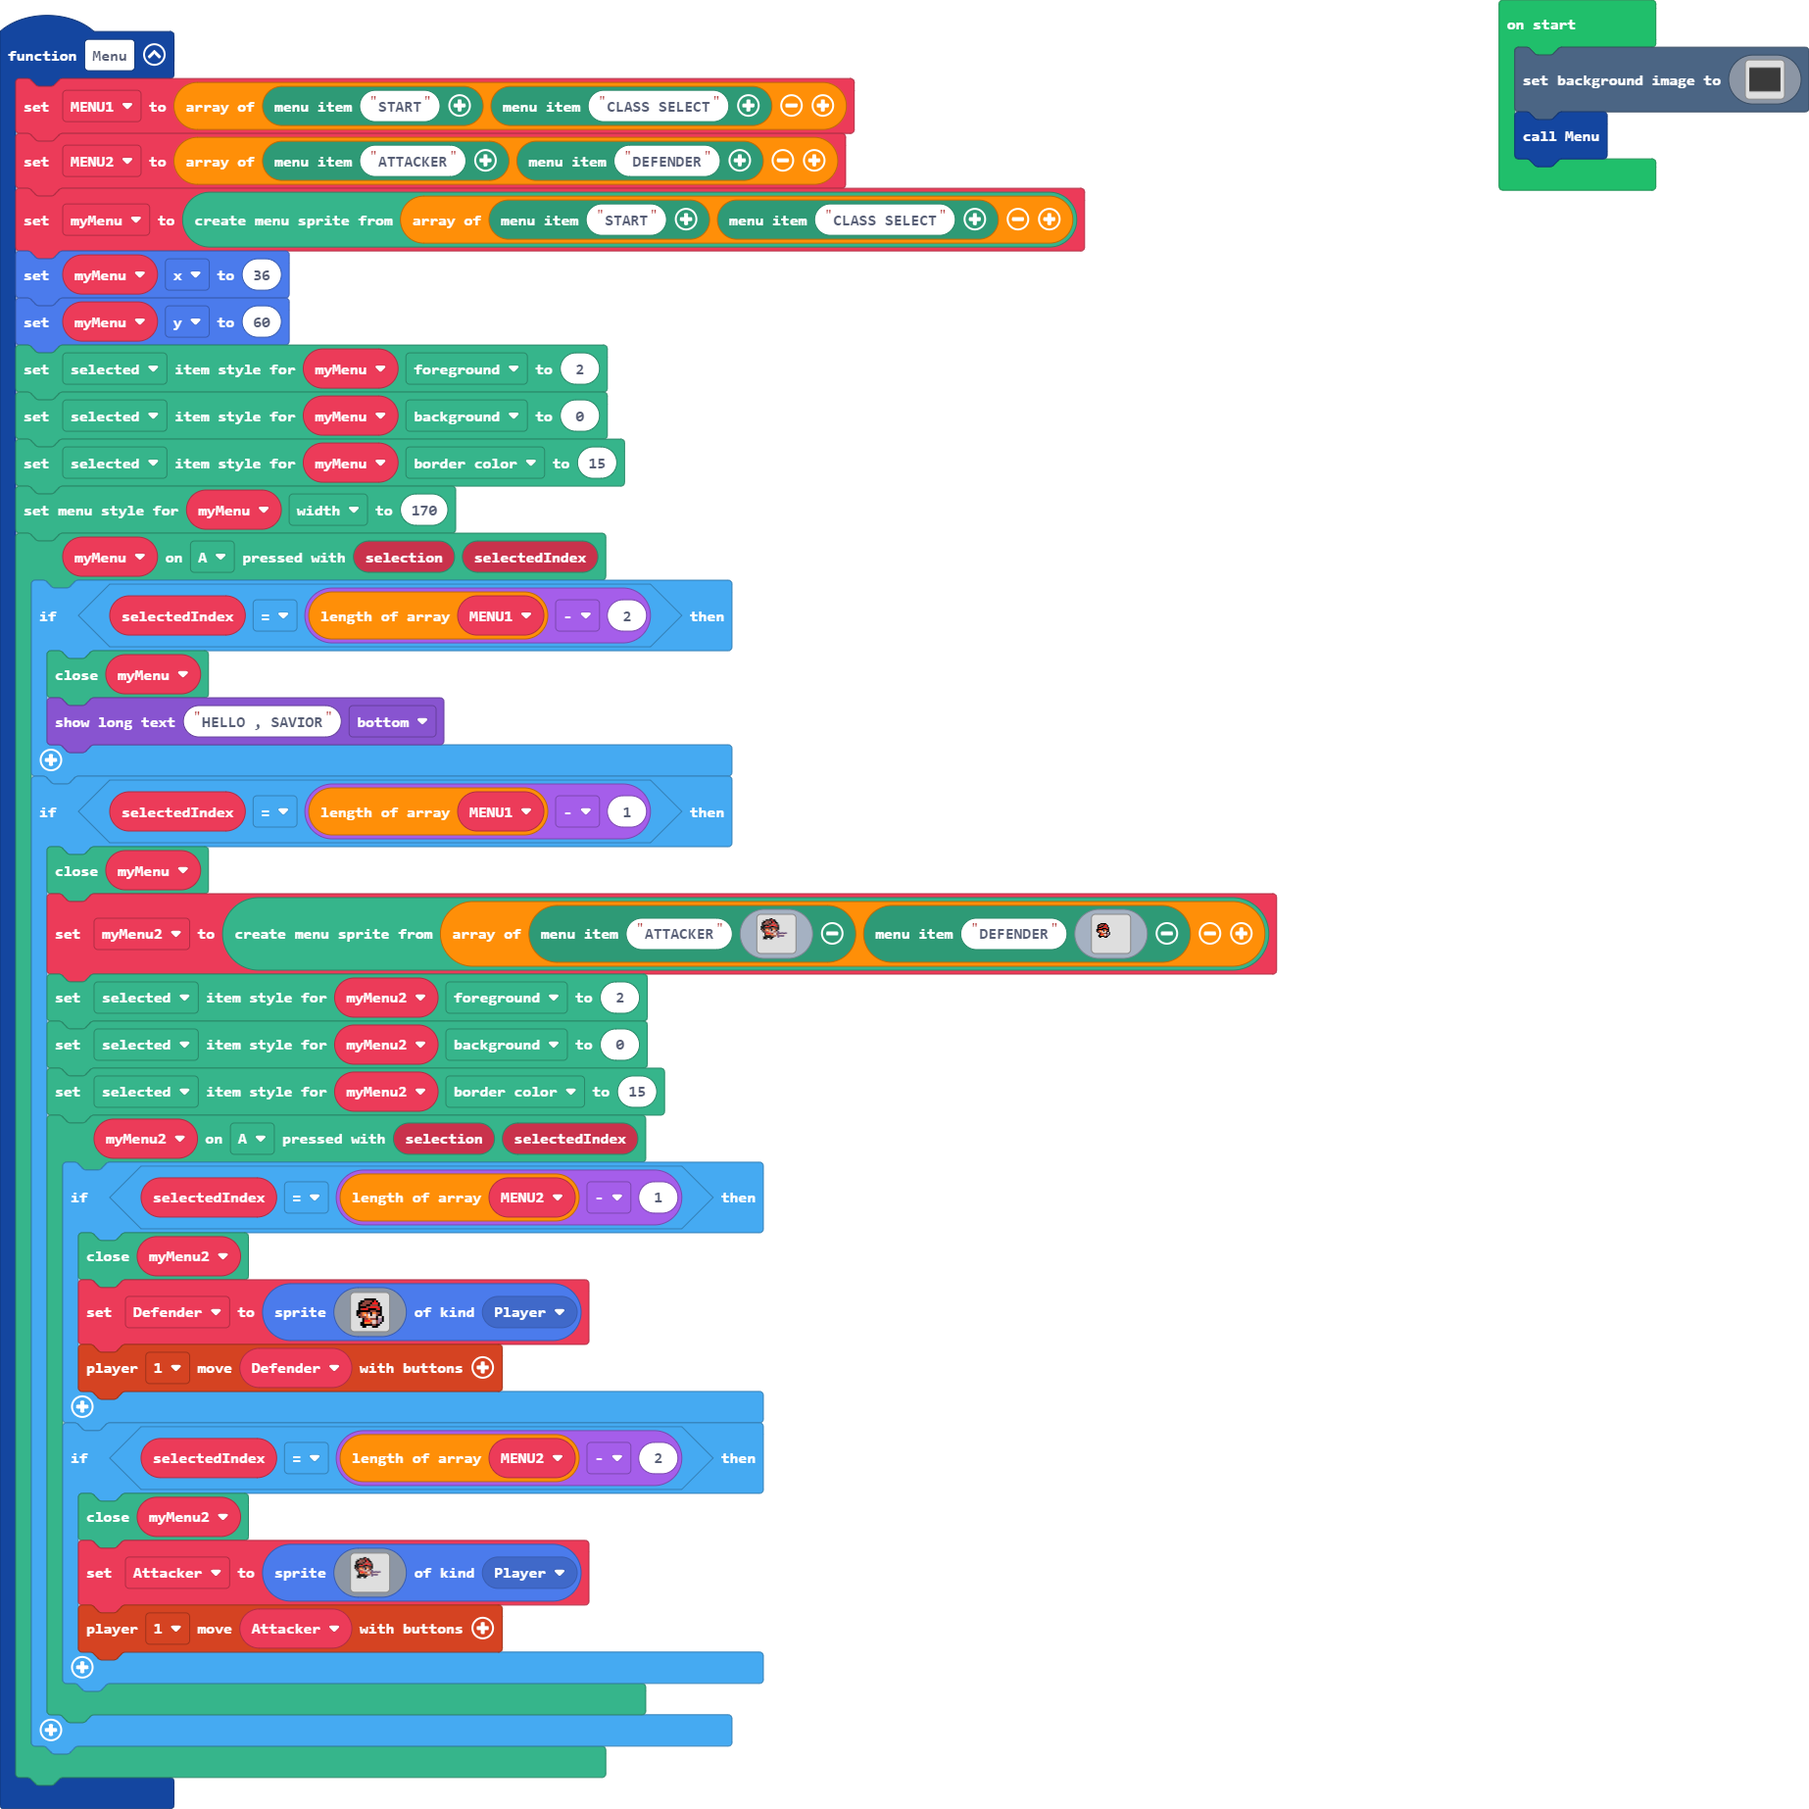
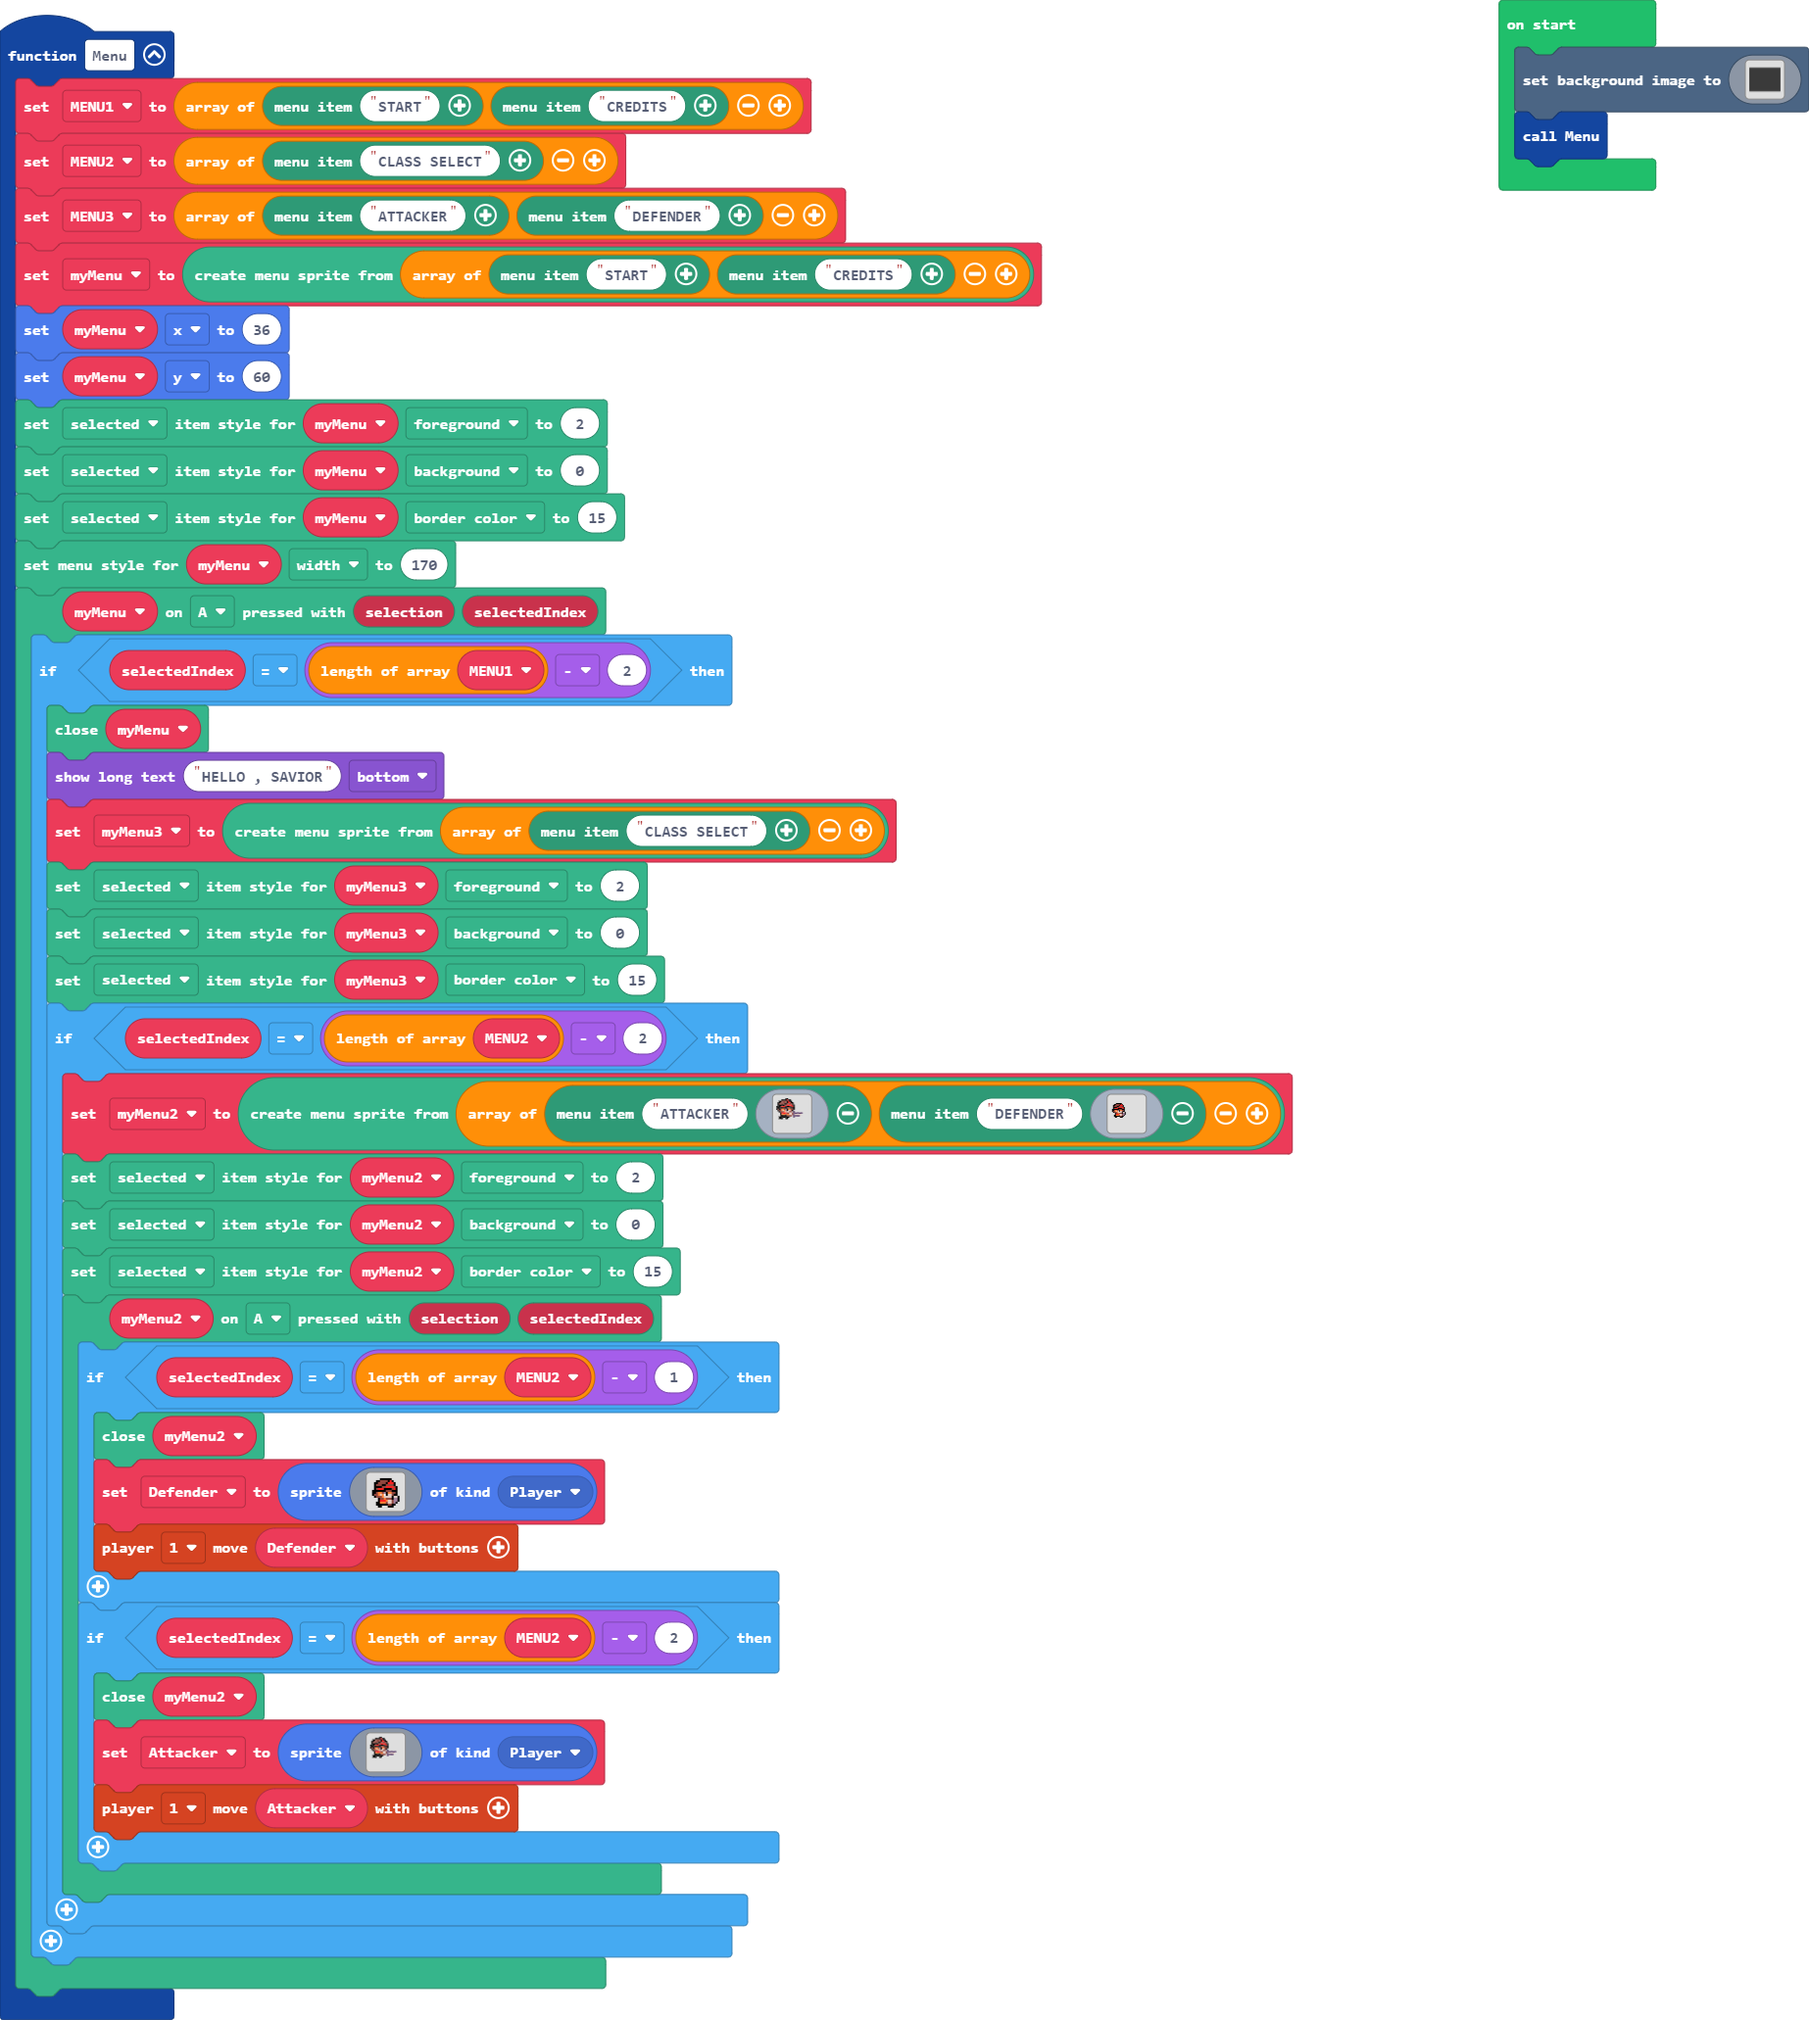
Update main.blocks, main.ts

Changed region(s): [[0.0, 0.0, 0.7411, 0.9881], [0.8337, 0.0, 1.0, 0.1235]]

diff --git a/main.ts b/main.ts
@@ -1,7 +1,8 @@
 function Menu () {
-    MENU1 = [miniMenu.createMenuItem("START"), miniMenu.createMenuItem("CLASS SELECT")]
-    MENU2 = [miniMenu.createMenuItem("ATTACKER"), miniMenu.createMenuItem("DEFENDER")]
-    myMenu = miniMenu.createMenuFromArray([miniMenu.createMenuItem("START"), miniMenu.createMenuItem("CLASS SELECT")])
+    MENU1 = [miniMenu.createMenuItem("START"), miniMenu.createMenuItem("CREDITS")]
+    MENU2 = [miniMenu.createMenuItem("CLASS SELECT")]
+    MENU3 = [miniMenu.createMenuItem("ATTACKER"), miniMenu.createMenuItem("DEFENDER")]
+    myMenu = miniMenu.createMenuFromArray([miniMenu.createMenuItem("START"), miniMenu.createMenuItem("CREDITS")])
     myMenu.x = 36
     myMenu.y = 60
     myMenu.setStyleProperty(miniMenu.StyleKind.Selected, miniMenu.StyleProperty.Foreground, 2)
@@ -12,124 +13,129 @@ function Menu () {
         if (selectedIndex == MENU1.length - 2) {
             myMenu.close()
             game.showLongText("HELLO , SAVIOR", DialogLayout.Bottom)
-        }
-        if (selectedIndex == MENU1.length - 1) {
-            myMenu.close()
-            myMenu2 = miniMenu.createMenuFromArray([miniMenu.createMenuItem("ATTACKER", img`
-                .......ff...............
-                ....ffff2ff.............
-                ..ffeeeef2ff............
-                .ffeeeeef22ff...........
-                .feeeeffeeeef...........
-                .fffffee2222ef..........
-                fffe222ffffe2f..........
-                ffffffffeeefff..........
-                fefe44ebf44eef..........
-                .fee4d4bfddef...........
-                ..feee4dddee.c..........
-                ...f2222eeddeccccccc....
-                ...f444e44ddecddddd.....
-                ...fffffeeee.ccccc......
-                ..ffffffff...c..........
-                ..fff..ff...............
-                ........................
-                ........................
-                ........................
-                ........................
-                ........................
-                ........................
-                ........................
-                ........................
-                `), miniMenu.createMenuItem("DEFENDER", img`
-                ................................
-                .....ffffff.....................
-                ...ffeeeef2f....................
-                ..ffeeeef222f...................
-                ..feeeffeeeef...................
-                ..ffffee2222ef..................
-                ..fe222ffffe2f..................
-                .fffffffeeefff..................
-                .ffe44ebf44eef..................
-                .fee4d41fddeff..................
-                ..feee4ddddfddf.................
-                ....fee4eeefbbf.................
-                ....f2224ddebbf.................
-                ...ff444eddebf..................
-                ...ffffffeeff...................
-                ....ff...fff....................
-                ................................
-                ................................
-                ................................
-                ................................
-                ................................
-                ................................
-                ................................
-                ................................
-                `)])
-            myMenu2.setStyleProperty(miniMenu.StyleKind.Selected, miniMenu.StyleProperty.Foreground, 2)
-            myMenu2.setStyleProperty(miniMenu.StyleKind.Selected, miniMenu.StyleProperty.Background, 0)
-            myMenu2.setStyleProperty(miniMenu.StyleKind.Selected, miniMenu.StyleProperty.BorderColor, 15)
-            myMenu2.onButtonPressed(controller.A, function (selection, selectedIndex) {
-                if (selectedIndex == MENU2.length - 1) {
-                    myMenu2.close()
-                    Defender = sprites.create(img`
-                        . . . . . . . . . . . . . . . . 
-                        . . . . . f f f f f f . . . . . 
-                        . . . f f e e e e f 2 f . . . . 
-                        . . f f e e e e f 2 2 2 f . . . 
-                        . . f e e e f f e e e e f . . . 
-                        . . f f f f e e 2 2 2 2 e f . . 
-                        . . f e 2 2 2 f f f f e 2 f . . 
-                        . f f f f f f f e e e f f f . . 
-                        . f f e 4 4 e b f 4 4 e e f . . 
-                        . f e e 4 d 4 1 f d d e f f . . 
-                        . . f e e e 4 d d d d f d d f . 
-                        . . . . f e e 4 e e e f b b f . 
-                        . . . . f 2 2 2 4 d d e b b f . 
-                        . . . f f 4 4 4 e d d e b f . . 
-                        . . . f f f f f f e e f f . . . 
-                        . . . . f f . . . f f f . . . . 
-                        `, SpriteKind.Player)
-                    controller.player1.moveSprite(Defender)
-                }
-                if (selectedIndex == MENU2.length - 2) {
-                    myMenu2.close()
-                    Attacker = sprites.create(img`
-                        .......ff...............
-                        ....ffff2ff.............
-                        ..ffeeeef2ff............
-                        .ffeeeeef22ff...........
-                        .feeeeffeeeef...........
-                        .fffffee2222ef..........
-                        fffe222ffffe2f..........
-                        ffffffffeeefff..........
-                        fefe44ebf44eef..........
-                        .fee4d4bfddef...........
-                        ..feee4dddee.c..........
-                        ...f2222eeddeccccccc....
-                        ...f444e44ddecddddd.....
-                        ...fffffeeee.ccccc......
-                        ..ffffffff...c..........
-                        ..fff..ff...............
-                        ........................
-                        ........................
-                        ........................
-                        ........................
-                        ........................
-                        ........................
-                        ........................
-                        ........................
-                        `, SpriteKind.Player)
-                    controller.player1.moveSprite(Attacker)
-                }
-            })
+            myMenu3 = miniMenu.createMenuFromArray([miniMenu.createMenuItem("CLASS SELECT")])
+            myMenu3.setStyleProperty(miniMenu.StyleKind.Selected, miniMenu.StyleProperty.Foreground, 2)
+            myMenu3.setStyleProperty(miniMenu.StyleKind.Selected, miniMenu.StyleProperty.Background, 0)
+            myMenu3.setStyleProperty(miniMenu.StyleKind.Selected, miniMenu.StyleProperty.BorderColor, 15)
+            if (selectedIndex == MENU2.length - 2) {
+                myMenu2 = miniMenu.createMenuFromArray([miniMenu.createMenuItem("ATTACKER", img`
+                    .......ff...............
+                    ....ffff2ff.............
+                    ..ffeeeef2ff............
+                    .ffeeeeef22ff...........
+                    .feeeeffeeeef...........
+                    .fffffee2222ef..........
+                    fffe222ffffe2f..........
+                    ffffffffeeefff..........
+                    fefe44ebf44eef..........
+                    .fee4d4bfddef...........
+                    ..feee4dddee.c..........
+                    ...f2222eeddeccccccc....
+                    ...f444e44ddecddddd.....
+                    ...fffffeeee.ccccc......
+                    ..ffffffff...c..........
+                    ..fff..ff...............
+                    ........................
+                    ........................
+                    ........................
+                    ........................
+                    ........................
+                    ........................
+                    ........................
+                    ........................
+                    `), miniMenu.createMenuItem("DEFENDER", img`
+                    ................................
+                    .....ffffff.....................
+                    ...ffeeeef2f....................
+                    ..ffeeeef222f...................
+                    ..feeeffeeeef...................
+                    ..ffffee2222ef..................
+                    ..fe222ffffe2f..................
+                    .fffffffeeefff..................
+                    .ffe44ebf44eef..................
+                    .fee4d41fddeff..................
+                    ..feee4ddddfddf.................
+                    ....fee4eeefbbf.................
+                    ....f2224ddebbf.................
+                    ...ff444eddebf..................
+                    ...ffffffeeff...................
+                    ....ff...fff....................
+                    ................................
+                    ................................
+                    ................................
+                    ................................
+                    ................................
+                    ................................
+                    ................................
+                    ................................
+                    `)])
+                myMenu2.setStyleProperty(miniMenu.StyleKind.Selected, miniMenu.StyleProperty.Foreground, 2)
+                myMenu2.setStyleProperty(miniMenu.StyleKind.Selected, miniMenu.StyleProperty.Background, 0)
+                myMenu2.setStyleProperty(miniMenu.StyleKind.Selected, miniMenu.StyleProperty.BorderColor, 15)
+                myMenu2.onButtonPressed(controller.A, function (selection, selectedIndex) {
+                    if (selectedIndex == MENU2.length - 1) {
+                        myMenu2.close()
+                        Defender = sprites.create(img`
+                            . . . . . . . . . . . . . . . . 
+                            . . . . . f f f f f f . . . . . 
+                            . . . f f e e e e f 2 f . . . . 
+                            . . f f e e e e f 2 2 2 f . . . 
+                            . . f e e e f f e e e e f . . . 
+                            . . f f f f e e 2 2 2 2 e f . . 
+                            . . f e 2 2 2 f f f f e 2 f . . 
+                            . f f f f f f f e e e f f f . . 
+                            . f f e 4 4 e b f 4 4 e e f . . 
+                            . f e e 4 d 4 1 f d d e f f . . 
+                            . . f e e e 4 d d d d f d d f . 
+                            . . . . f e e 4 e e e f b b f . 
+                            . . . . f 2 2 2 4 d d e b b f . 
+                            . . . f f 4 4 4 e d d e b f . . 
+                            . . . f f f f f f e e f f . . . 
+                            . . . . f f . . . f f f . . . . 
+                            `, SpriteKind.Player)
+                        controller.player1.moveSprite(Defender)
+                    }
+                    if (selectedIndex == MENU2.length - 2) {
+                        myMenu2.close()
+                        Attacker = sprites.create(img`
+                            .......ff...............
+                            ....ffff2ff.............
+                            ..ffeeeef2ff............
+                            .ffeeeeef22ff...........
+                            .feeeeffeeeef...........
+                            .fffffee2222ef..........
+                            fffe222ffffe2f..........
+                            ffffffffeeefff..........
+                            fefe44ebf44eef..........
+                            .fee4d4bfddef...........
+                            ..feee4dddee.c..........
+                            ...f2222eeddeccccccc....
+                            ...f444e44ddecddddd.....
+                            ...fffffeeee.ccccc......
+                            ..ffffffff...c..........
+                            ..fff..ff...............
+                            ........................
+                            ........................
+                            ........................
+                            ........................
+                            ........................
+                            ........................
+                            ........................
+                            ........................
+                            `, SpriteKind.Player)
+                        controller.player1.moveSprite(Attacker)
+                    }
+                })
+            }
         }
     })
 }
 let Attacker: Sprite = null
 let Defender: Sprite = null
 let myMenu2: miniMenu.MenuSprite = null
+let myMenu3: miniMenu.MenuSprite = null
 let myMenu: miniMenu.MenuSprite = null
+let MENU3: miniMenu.MenuItem[] = []
 let MENU2: miniMenu.MenuItem[] = []
 let MENU1: miniMenu.MenuItem[] = []
 scene.setBackgroundImage(img`
